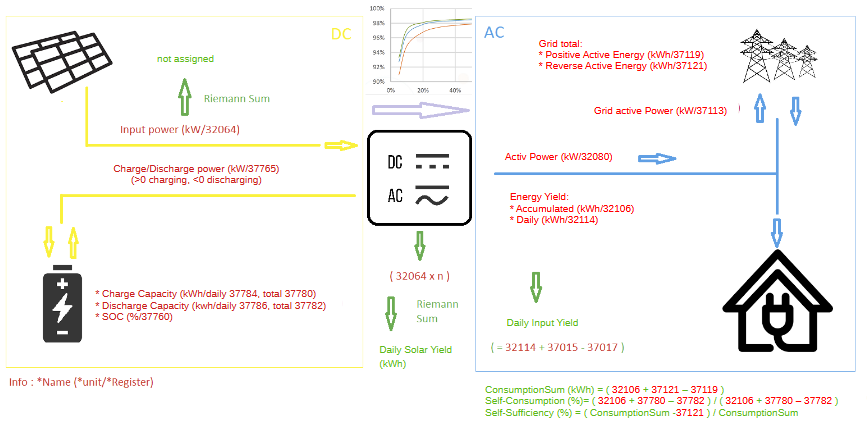
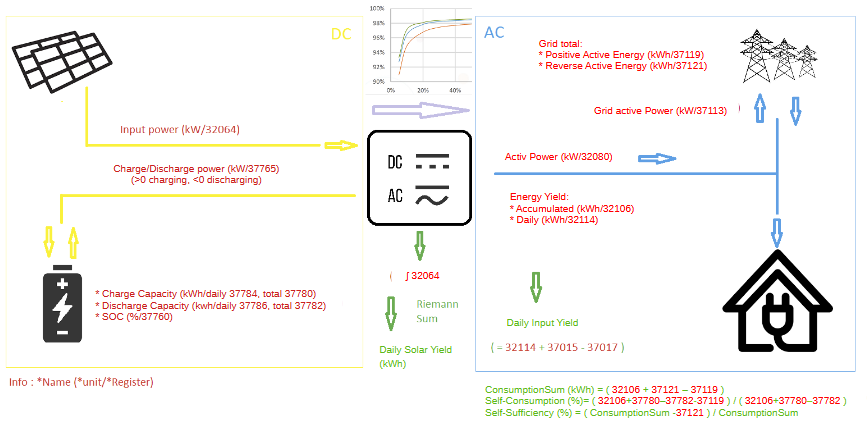
readme calculation

diff --git a/lib/types.js b/lib/types.js
@@ -62,14 +62,12 @@ const dataRefreshRate = {
 	compare (refresh,fieldRefresh) {
 		//v0.4.0
 		if (refresh === this.high) return (fieldRefresh === this.high);
-		return true;
-
+		else return (fieldRefresh !== this.high);
 		/*
 		if (refresh !== this.high && fieldRefresh === undefined) return true;
 		if (fieldRefresh === this.medium && refresh === this.low) return true;
 		return (fieldRefresh === refresh );
 		*/
-
 	}
 };
 

diff --git a/docs/calculation.md b/docs/calculation.md
@@ -1,0 +1,31 @@
+# Calculation
+
+The calculation implemented are described by this diagram:
+
+![Screen](./images/HuaweiSunLuna2000-v2.png)
+(Source: https://github.com/ChrisBCH/SunLuna2000_iobroker/blob/main/HuaweiSunLuna2000.png)
+
+The following variables are used or can be calculated yourself:
+
+- `Input power`: sun2000.0.collected.inputPower 
+- `Charge/Discharge power`: sun2000.0.collected.chargeDischargePower
+- `Charge capacity daily`: sun2000.0.collected.currentDayChargeCapacity
+- `Charge capacity total`: sun2000.0.collected.totalCharge
+- `Discharge capacity daily`: sun2000.0.inverter.0.battery.currentDayDischargeCapacity
+- `Discharge capacity total`: sun2000.0.inverter.0.battery.totalDischarge
+- `SOC`: sun2000.0.collected.SOC
+- `Daily Solar yield`: sun2000.0.collected.dailySolarYield
+- `Grid total, positive active Energy`: sun2000.0.meter.positiveActiveEnergy
+- `Grid total, reverse active Energy`: sun2000.0.meter.reverseActiveEnergy
+- `Grid active power`: sun2000.0.meter.activePower
+- `active power`: sun2000.0.collected.activePower
+- `Energy yield Accumulated`: sun2000.0.collected.accumulatedEnergyYield
+- `Energy yield Daily`: sun2000.0.collected.dailyEnergyYield
+- `Daily input yield`: sun2000.0.collected.dailyInputYield
+- `CommsumptionSum`: sun2000.0.collected.consumptionSum
+- `Self-consumption %`: (sun2000.0.collected.accumulatedEnergyYield+sun2000.0.collected.totalCharge-sun2000.0.inverter.0.battery.totalDischarge- sun2000.0.meter.positiveActiveEnergy) / (sun2000.0.collected.accumulatedEnergyYield + sun2000.0.collected.totalCharge - sun2000.0.inverter.0.battery.totalDischarge)
+- `Self-Sufficiency %`: (sun2000.0.collected.consumptionSum - sun2000.0.meter.reverseActiveEnergy) / sun2000.0.collected.consumptionSum
+
+
+
+

diff --git a/docs/README.md b/docs/README.md
@@ -1,6 +1,5 @@
 # ioBroker adapter SUN2000 Documentation
 
-* [Configuration](./configuration.md)
-* [Computations](./computations.md)
+* [Calculation](./calculation.md)
 
 Work In Progress
